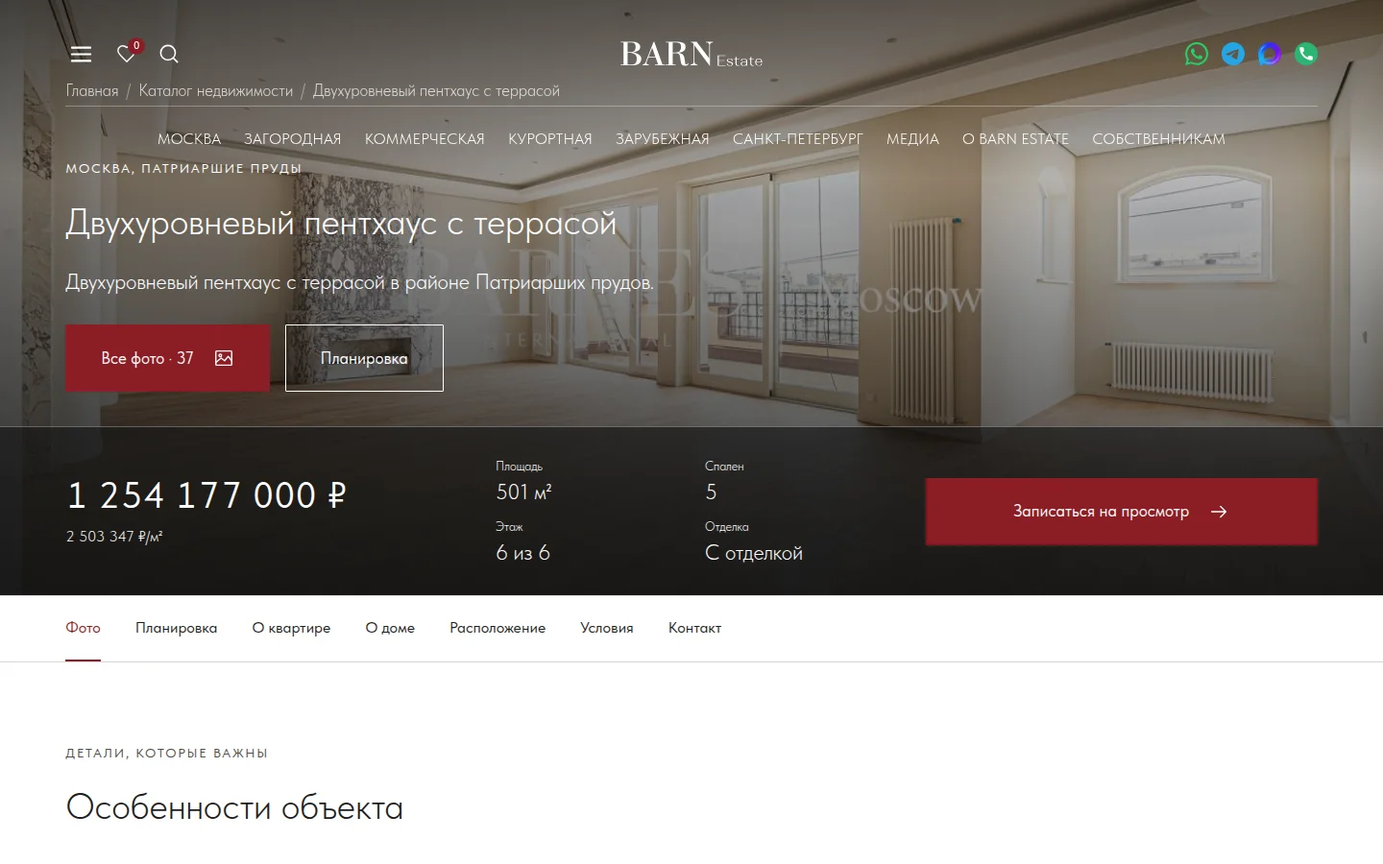
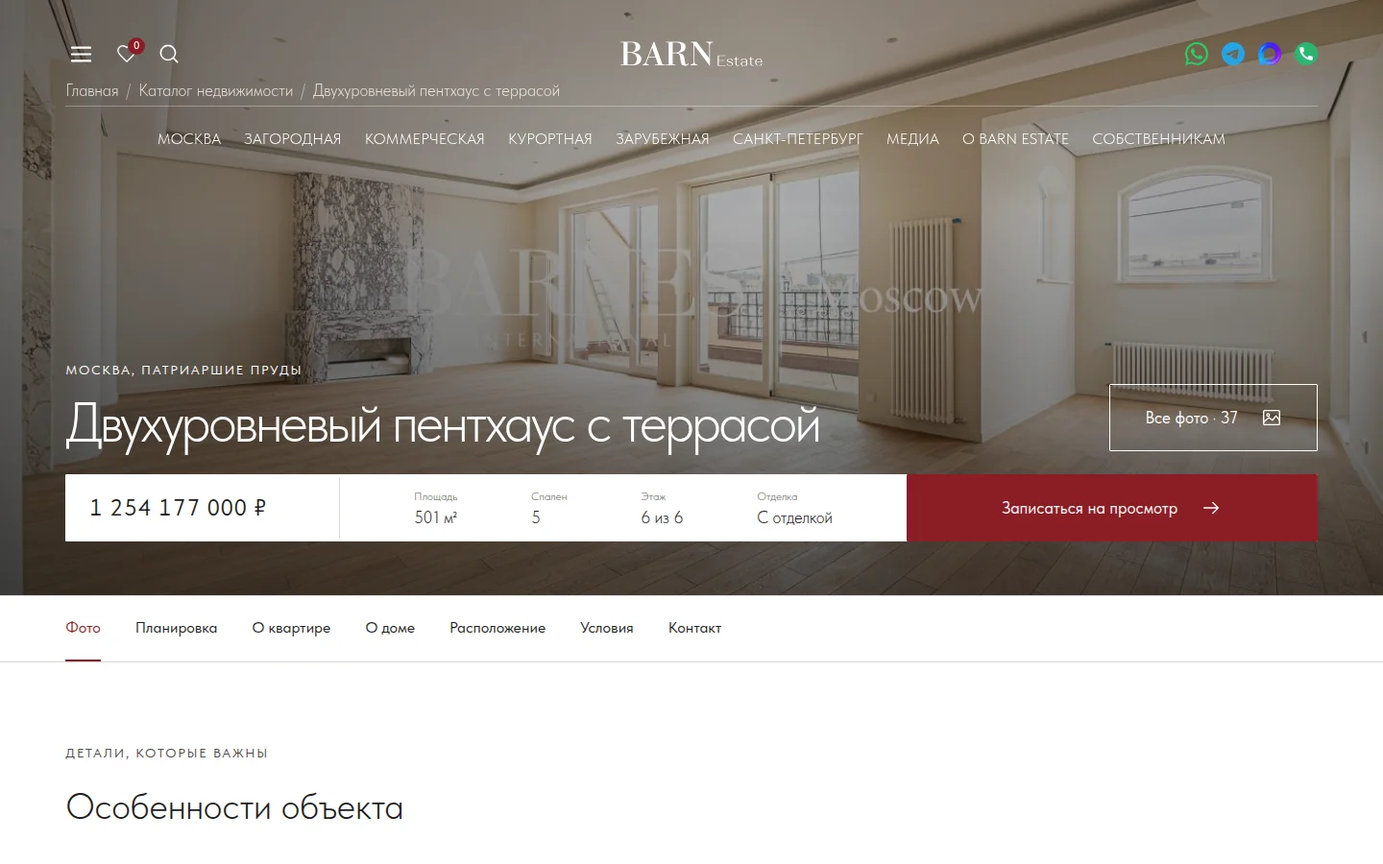
lot: publish hero 3 with approved hero roles and white action row

diff --git a/stranitsa-lota/hero-options/index.html b/stranitsa-lota/hero-options/index.html
@@ -1,1 +1,1 @@
-<!doctype html><html lang="ru"><head><meta charset="utf-8"><meta name="viewport" content="width=device-width,initial-scale=1"><meta name="robots" content="noindex,nofollow"><title>Варианты херо — BARN Estate</title><style>@font-face{font-family:Tilda Sans;src:url('../fonts/TildaSans-Light.woff2') format('woff2');font-weight:300;font-display:swap}@font-face{font-family:Tilda Sans;src:url('../fonts/TildaSans-Regular.woff2') format('woff2');font-weight:400;font-display:swap}*{box-sizing:border-box}body{margin:0;color:#1e1e1e;background:#fff;font:300 18px/1.5 'Tilda Sans',Arial,sans-serif}a{color:inherit}header,main{max-width:1920px;margin:auto;padding-inline:clamp(24px,calc(-26.66667px + 6.59722vw),100px)}header{display:flex;align-items:center;justify-content:space-between;gap:24px;padding-block:28px;border-bottom:1px solid #d8d6d2}header img{width:172px;height:48px}header a:last-child{font-size:15px;text-underline-offset:4px}main{padding-block:72px 100px}h1{font-size:44px;line-height:1.2;font-weight:300;max-width:920px;margin:0}main>p{font-size:22px;line-height:33px;color:#4f4d49;max-width:970px;margin:24px 0 0}.eyebrow{font-size:14px;font-weight:400;letter-spacing:.12em;text-transform:uppercase;color:#4f4d49;margin:0}.quick-links{display:flex;gap:12px;flex-wrap:wrap;margin:32px 0 48px}.quick-links a{display:flex;align-items:center;justify-content:center;width:44px;height:44px;text-decoration:none;border:1px solid #8b8986;border-radius:1px;font-size:17px;font-weight:400}.cards{display:grid;grid-template-columns:1fr 1fr;gap:64px 40px}article{border-top:1px solid #d8d6d2;padding-top:24px;scroll-margin-top:24px}article:last-child{grid-column:1/-1;max-width:950px}.card-top{display:flex;align-items:center;justify-content:space-between;gap:20px}.recommend{font-size:13px;line-height:18px;color:#8b1d25}.cards h2{font-size:28px;line-height:1.2;font-weight:300;margin:20px 0 28px}.shots{display:grid;grid-template-columns:minmax(0,1fr) 88px;gap:12px;background:#f7f6f4;padding:12px;align-items:center}.shots img{width:100%;height:auto;display:block}.shots .phone{border:1px solid #d8d6d2}.description{font-size:20px;line-height:1.5;margin:24px 0 12px}.why{font-size:16px;line-height:1.5;color:#656462;margin:0 0 24px}.button{display:inline-flex;align-items:center;justify-content:space-between;gap:32px;min-height:70px;padding:16px 36px;background:#8b1d25;border:1px solid #8b1d25;border-radius:1px;font-size:17px;line-height:1.1;font-weight:400;color:#fff;text-decoration:none}.button span{font-size:22px}a:focus-visible{outline:2px solid #8b1d25;outline-offset:5px}@media(min-width:1441px){.button{font-size:19px;padding-inline:47px}}@media(max-width:900px){.cards{grid-template-columns:1fr;gap:48px}.cards article:last-child{grid-column:auto}}@media(max-width:540px){header,main{padding-inline:22px}header{padding-block:20px;gap:16px}header img{width:130px;height:36px}header a:last-child{font-size:13px}main{padding-block:48px}h1{font-size:22px}.eyebrow{font-size:12px}main>p{font-size:15px;line-height:21px;margin-top:16px}.quick-links{margin-bottom:32px}.cards h2{font-size:22px;margin-block:16px 24px}.shots{display:block;padding:0}.shots .phone{display:none}.description{font-size:17px;margin-top:20px}.why{font-size:15px}.button{width:100%;min-height:58px;padding:14px 24px;font-size:18px}}@media(prefers-reduced-motion:reduce){*{scroll-behavior:auto!important}}</style></head><body><header><a href="../"><img src="../kit/assets/logo.svg" alt="BARN Estate" width="172" height="48"></a><a href="../">К странице лота</a></header><main><p class="eyebrow" style="margin-bottom:24px">Страница лота · выбор первого экрана</p><h1>Пять вариантов херо с крупной фотографией</h1><p>Фотография занимает всю ширину. У варианта №3 высота совпадает с главной страницей на всех брейкпоинтах. Шрифты, цвета и кнопки — из нашего UI-кита.</p><nav class="quick-links" aria-label="Варианты херо"><a href="#variant-1" aria-label="Вариант 1">01</a><a href="#variant-2" aria-label="Вариант 2">02</a><a href="#variant-3" aria-label="Вариант 3">03</a><a href="#variant-4" aria-label="Вариант 4">04</a><a href="#variant-5" aria-label="Вариант 5">05</a></nav><div class="cards"><article id="variant-1"><div class="card-top"><p class="eyebrow">Вариант 01</p><span class="recommend">Рекомендую</span></div><h2>Текст поверх фотографии</h2><a class="shots" href="../?hero=1&amp;v=hero-options-20261110" aria-label="Открыть вариант 1: Текст поверх фотографии"><img src="previews/1-desktop.webp" width="1440" height="900" alt="Вариант 1 на компьютере" loading="lazy"><img class="phone" src="previews/1-mobile.webp" width="390" height="844" alt="Вариант 1 на телефоне" loading="lazy"></a><p class="description">Название и описание слева, цена и запись справа. Максимум фотографии и минимум отдельных панелей.</p><p class="why">Спокойный и универсальный вариант.</p><a class="button" href="../?hero=1&amp;v=hero-options-20261110">Открыть вариант 1<span aria-hidden="true">↗</span></a></article><article id="variant-2"><div class="card-top"><p class="eyebrow">Вариант 02</p></div><h2>Белая карточка</h2><a class="shots" href="../?hero=2&amp;v=hero-options-20261110" aria-label="Открыть вариант 2: Белая карточка"><img src="previews/2-desktop.webp" width="1440" height="900" alt="Вариант 2 на компьютере" loading="lazy"><img class="phone" src="previews/2-mobile.webp" width="390" height="844" alt="Вариант 2 на телефоне" loading="lazy"></a><p class="description">Фотография продолжается за карточкой с ценой, параметрами и брокером. На телефоне карточка становится компактной.</p><p class="why">Самый привычный сценарий выбора объекта.</p><a class="button" href="../?hero=2&amp;v=hero-options-20261110">Открыть вариант 2<span aria-hidden="true">↗</span></a></article><article id="variant-3"><div class="card-top"><p class="eyebrow">Вариант 03</p></div><h2>Нижняя плашка</h2><a class="shots" href="../?hero=3&amp;v=hero3-home-20261110" aria-label="Открыть вариант 3: Нижняя плашка"><img src="previews/3-desktop.webp?v=home-height" width="1440" height="900" alt="Вариант 3 на компьютере" loading="lazy"><img class="phone" src="previews/3-mobile.webp?v=home-height" width="390" height="844" alt="Вариант 3 на телефоне" loading="lazy"></a><p class="description">Название, описание и кнопки опущены вниз, прямо над полосой с ценой, параметрами и записью.</p><p class="why">Высота первого экрана — как на главной странице.</p><a class="button" href="../?hero=3&amp;v=hero3-home-20261110">Открыть вариант 3<span aria-hidden="true">↗</span></a></article><article id="variant-4"><div class="card-top"><p class="eyebrow">Вариант 04</p></div><h2>Композиция по центру</h2><a class="shots" href="../?hero=4&amp;v=hero-options-20261110" aria-label="Открыть вариант 4: Композиция по центру"><img src="previews/4-desktop.webp" width="1440" height="900" alt="Вариант 4 на компьютере" loading="lazy"><img class="phone" src="previews/4-mobile.webp" width="390" height="844" alt="Вариант 4 на телефоне" loading="lazy"></a><p class="description">Название, описание и галерея собраны по центральной оси. Цена и просмотр — ниже, на той же оси.</p><p class="why">Подходит для акцентного архитектурного или интерьерного кадра.</p><a class="button" href="../?hero=4&amp;v=hero-options-20261110">Открыть вариант 4<span aria-hidden="true">↗</span></a></article><article id="variant-5"><div class="card-top"><p class="eyebrow">Вариант 05</p></div><h2>Лента кадров</h2><a class="shots" href="../?hero=5&amp;v=hero-options-20261110" aria-label="Открыть вариант 5: Лента кадров"><img src="previews/5-desktop.webp" width="1440" height="900" alt="Вариант 5 на компьютере" loading="lazy"><img class="phone" src="previews/5-mobile.webp" width="390" height="844" alt="Вариант 5 на телефоне" loading="lazy"></a><p class="description">Полноэкранная фотография с тремя миниатюрами для переключения. Название и стоимость остаются поверх изображения.</p><p class="why">Позволяет начать изучение квартиры прямо с первого экрана.</p><a class="button" href="../?hero=5&amp;v=hero-options-20261110">Открыть вариант 5<span aria-hidden="true">↗</span></a></article></div></main></body></html>
+<!doctype html><html lang="ru"><head><meta charset="utf-8"><meta name="viewport" content="width=device-width,initial-scale=1"><meta name="robots" content="noindex,nofollow"><title>Варианты херо — BARN Estate</title><style>@font-face{font-family:Tilda Sans;src:url('../fonts/TildaSans-Light.woff2') format('woff2');font-weight:300;font-display:swap}@font-face{font-family:Tilda Sans;src:url('../fonts/TildaSans-Regular.woff2') format('woff2');font-weight:400;font-display:swap}*{box-sizing:border-box}body{margin:0;color:#1e1e1e;background:#fff;font:300 18px/1.5 'Tilda Sans',Arial,sans-serif}a{color:inherit}header,main{max-width:1920px;margin:auto;padding-inline:clamp(24px,calc(-26.66667px + 6.59722vw),100px)}header{display:flex;align-items:center;justify-content:space-between;gap:24px;padding-block:28px;border-bottom:1px solid #d8d6d2}header img{width:172px;height:48px}header a:last-child{font-size:15px;text-underline-offset:4px}main{padding-block:72px 100px}h1{font-size:44px;line-height:1.2;font-weight:300;max-width:920px;margin:0}main>p{font-size:22px;line-height:33px;color:#4f4d49;max-width:970px;margin:24px 0 0}.eyebrow{font-size:14px;font-weight:400;letter-spacing:.12em;text-transform:uppercase;color:#4f4d49;margin:0}.quick-links{display:flex;gap:12px;flex-wrap:wrap;margin:32px 0 48px}.quick-links a{display:flex;align-items:center;justify-content:center;width:44px;height:44px;text-decoration:none;border:1px solid #8b8986;border-radius:1px;font-size:17px;font-weight:400}.cards{display:grid;grid-template-columns:1fr 1fr;gap:64px 40px}article{border-top:1px solid #d8d6d2;padding-top:24px;scroll-margin-top:24px}article:last-child{grid-column:1/-1;max-width:950px}.card-top{display:flex;align-items:center;justify-content:space-between;gap:20px}.recommend{font-size:13px;line-height:18px;color:#8b1d25}.cards h2{font-size:28px;line-height:1.2;font-weight:300;margin:20px 0 28px}.shots{display:grid;grid-template-columns:minmax(0,1fr) 88px;gap:12px;background:#f7f6f4;padding:12px;align-items:center}.shots img{width:100%;height:auto;display:block}.shots .phone{border:1px solid #d8d6d2}.description{font-size:20px;line-height:1.5;margin:24px 0 12px}.why{font-size:16px;line-height:1.5;color:#656462;margin:0 0 24px}.button{display:inline-flex;align-items:center;justify-content:space-between;gap:32px;min-height:70px;padding:16px 36px;background:#8b1d25;border:1px solid #8b1d25;border-radius:1px;font-size:17px;line-height:1.1;font-weight:400;color:#fff;text-decoration:none}.button span{font-size:22px}a:focus-visible{outline:2px solid #8b1d25;outline-offset:5px}@media(min-width:1441px){.button{font-size:19px;padding-inline:47px}}@media(max-width:900px){.cards{grid-template-columns:1fr;gap:48px}.cards article:last-child{grid-column:auto}}@media(max-width:540px){header,main{padding-inline:22px}header{padding-block:20px;gap:16px}header img{width:130px;height:36px}header a:last-child{font-size:13px}main{padding-block:48px}h1{font-size:22px}.eyebrow{font-size:12px}main>p{font-size:15px;line-height:21px;margin-top:16px}.quick-links{margin-bottom:32px}.cards h2{font-size:22px;margin-block:16px 24px}.shots{display:block;padding:0}.shots .phone{display:none}.description{font-size:17px;margin-top:20px}.why{font-size:15px}.button{width:100%;min-height:58px;padding:14px 24px;font-size:18px}}@media(prefers-reduced-motion:reduce){*{scroll-behavior:auto!important}}</style></head><body><header><a href="../"><img src="../kit/assets/logo.svg" alt="BARN Estate" width="172" height="48"></a><a href="../">К странице лота</a></header><main><p class="eyebrow" style="margin-bottom:24px">Страница лота · выбор первого экрана</p><h1>Пять вариантов херо с крупной фотографией</h1><p>Фотография занимает всю ширину. У варианта №3 высота совпадает с главной страницей на всех брейкпоинтах. Шрифты, цвета и кнопки — из нашего UI-кита.</p><nav class="quick-links" aria-label="Варианты херо"><a href="#variant-1" aria-label="Вариант 1">01</a><a href="#variant-2" aria-label="Вариант 2">02</a><a href="#variant-3" aria-label="Вариант 3">03</a><a href="#variant-4" aria-label="Вариант 4">04</a><a href="#variant-5" aria-label="Вариант 5">05</a></nav><div class="cards"><article id="variant-1"><div class="card-top"><p class="eyebrow">Вариант 01</p><span class="recommend">Рекомендую</span></div><h2>Текст поверх фотографии</h2><a class="shots" href="../?hero=1&amp;v=hero-options-20261110" aria-label="Открыть вариант 1: Текст поверх фотографии"><img src="previews/1-desktop.webp" width="1440" height="900" alt="Вариант 1 на компьютере" loading="lazy"><img class="phone" src="previews/1-mobile.webp" width="390" height="844" alt="Вариант 1 на телефоне" loading="lazy"></a><p class="description">Название и описание слева, цена и запись справа. Максимум фотографии и минимум отдельных панелей.</p><p class="why">Спокойный и универсальный вариант.</p><a class="button" href="../?hero=1&amp;v=hero-options-20261110">Открыть вариант 1<span aria-hidden="true">↗</span></a></article><article id="variant-2"><div class="card-top"><p class="eyebrow">Вариант 02</p></div><h2>Белая карточка</h2><a class="shots" href="../?hero=2&amp;v=hero-options-20261110" aria-label="Открыть вариант 2: Белая карточка"><img src="previews/2-desktop.webp" width="1440" height="900" alt="Вариант 2 на компьютере" loading="lazy"><img class="phone" src="previews/2-mobile.webp" width="390" height="844" alt="Вариант 2 на телефоне" loading="lazy"></a><p class="description">Фотография продолжается за карточкой с ценой, параметрами и брокером. На телефоне карточка становится компактной.</p><p class="why">Самый привычный сценарий выбора объекта.</p><a class="button" href="../?hero=2&amp;v=hero-options-20261110">Открыть вариант 2<span aria-hidden="true">↗</span></a></article><article id="variant-3"><div class="card-top"><p class="eyebrow">Вариант 03</p></div><h2>Крупный заголовок и белая полоса</h2><a class="shots" href="../?hero=3&amp;v=hero-kit-20261110" aria-label="Открыть вариант 3: Крупный заголовок и белая полоса"><img src="previews/3-desktop.webp?v=hero-kit" width="1440" height="900" alt="Вариант 3 на компьютере" loading="lazy"><img class="phone" src="previews/3-mobile.webp?v=hero-kit" width="390" height="844" alt="Вариант 3 на телефоне" loading="lazy"></a><p class="description">Крупный заголовок и кнопка всех фотографий внизу кадра. Цена, параметры и запись собраны в компактную белую полосу.</p><p class="why">Больше воздуха, одна основная кнопка и спокойная строка с параметрами.</p><a class="button" href="../?hero=3&amp;v=hero-kit-20261110">Открыть вариант 3<span aria-hidden="true">↗</span></a></article><article id="variant-4"><div class="card-top"><p class="eyebrow">Вариант 04</p></div><h2>Композиция по центру</h2><a class="shots" href="../?hero=4&amp;v=hero-options-20261110" aria-label="Открыть вариант 4: Композиция по центру"><img src="previews/4-desktop.webp" width="1440" height="900" alt="Вариант 4 на компьютере" loading="lazy"><img class="phone" src="previews/4-mobile.webp" width="390" height="844" alt="Вариант 4 на телефоне" loading="lazy"></a><p class="description">Название, описание и галерея собраны по центральной оси. Цена и просмотр — ниже, на той же оси.</p><p class="why">Подходит для акцентного архитектурного или интерьерного кадра.</p><a class="button" href="../?hero=4&amp;v=hero-options-20261110">Открыть вариант 4<span aria-hidden="true">↗</span></a></article><article id="variant-5"><div class="card-top"><p class="eyebrow">Вариант 05</p></div><h2>Лента кадров</h2><a class="shots" href="../?hero=5&amp;v=hero-options-20261110" aria-label="Открыть вариант 5: Лента кадров"><img src="previews/5-desktop.webp" width="1440" height="900" alt="Вариант 5 на компьютере" loading="lazy"><img class="phone" src="previews/5-mobile.webp" width="390" height="844" alt="Вариант 5 на телефоне" loading="lazy"></a><p class="description">Полноэкранная фотография с тремя миниатюрами для переключения. Название и стоимость остаются поверх изображения.</p><p class="why">Позволяет начать изучение квартиры прямо с первого экрана.</p><a class="button" href="../?hero=5&amp;v=hero-options-20261110">Открыть вариант 5<span aria-hidden="true">↗</span></a></article></div></main></body></html>

diff --git a/stranitsa-lota/hero-variants.css b/stranitsa-lota/hero-variants.css
@@ -108,30 +108,6 @@ body[data-hero-variant="2"] .lot-offer__facts dt {color:var(--muted)}
 body[data-hero-variant="2"] .lot-offer .text-link {color:var(--brand)}
 body[data-hero-variant="2"] .lot-offer .lot-price {font-size:32px}
 body[data-hero-variant="2"] .lot-hero__copy {width:calc(100% - 540px - var(--hero-inset));max-width:840px}
-/* 3 — title and actions sit directly above the horizontal bottom passport. */
-body[data-hero-variant="3"] .lot-hero {display:flex;flex-direction:column;justify-content:flex-end}
-body[data-hero-variant="3"] .lot-hero__copy {
-  position:relative;z-index:1;top:auto;bottom:auto;left:auto;
-  width:min(66%,950px);
-  margin:0 max(var(--hero-inset),calc((100vw - 1920px)/2)) 36px;
-}
-body[data-hero-variant="3"] .lot-hero__actions {margin-top:28px}
-body[data-hero-variant="3"] .lot-offer {
-  position:relative;flex:none;
-  display:grid;
-  grid-template-columns:1fr 1fr 1fr;
-  align-items:center;
-  justify-content:stretch;
-  gap:40px;
-  left:0;right:0;bottom:0;
-  width:100%;
-  padding:32px max(var(--hero-inset),calc((100vw - 1920px)/2));
-  background:#151515a6;
-  border-top:1px solid #ffffff50;
-}
-body[data-hero-variant="3"] .lot-offer__meta {display:none}
-body[data-hero-variant="3"] .lot-offer__facts {display:grid;border:0;padding:0;gap:14px 28px;grid-template-columns:repeat(2,1fr)}
-body[data-hero-variant="3"] .lot-offer__actions .text-link {display:none}
 /* 4 — centered composition, quiet information and one viewing action. */
 body[data-hero-variant="4"] .lot-hero__copy {
   left:50%;top:45%;bottom:auto;
@@ -171,7 +147,6 @@ body[data-hero-variant="5"] .lot-offer__actions .text-link {display:none}
   body[data-hero-variant]{--hero-top:190px}
   body[data-hero-variant="2"] .lot-offer {width:350px;padding:24px}
   body[data-hero-variant="2"] .lot-hero__copy {width:calc(100% - 440px - var(--hero-inset))}
-  body[data-hero-variant="3"] .lot-offer {gap:24px}
   .hero-filmstrip{width:135px}
 }
 @media(max-width:1024px){
@@ -179,9 +154,6 @@ body[data-hero-variant="5"] .lot-offer__actions .text-link {display:none}
   body[data-hero-variant] .lot-offer {grid-column:auto;grid-row:auto}
   body[data-hero-variant] .lot-hero {min-height:800px}
   body[data-hero-variant="2"] .lot-offer .broker {display:none}
-  body[data-hero-variant="3"] .lot-offer {grid-template-columns:1fr 1fr}
-  body[data-hero-variant="3"] .lot-offer__facts {display:none}
-  body[data-hero-variant="3"] .lot-offer__actions {grid-row:auto;grid-column:auto}
 }
 @media(max-width:1024px){
   body[data-hero-variant] .lot-hero {height:100svh;min-height:760px}
@@ -202,9 +174,6 @@ body[data-hero-variant="5"] .lot-offer__actions .text-link {display:none}
   body[data-hero-variant="2"] .lot-offer__facts {display:none}
   body[data-hero-variant="2"] .lot-offer .lot-price {font-size:clamp(24px,7.5vw,30px)}
   body[data-hero-variant="2"] .lot-hero__copy {bottom:300px}
-  body[data-hero-variant="3"] .lot-hero__copy {top:auto;bottom:auto;left:auto;width:calc(100% - 44px);margin:0 22px 28px}
-  body[data-hero-variant="3"] .lot-offer {left:0;right:0;bottom:0;width:100%;display:block;padding:24px 22px}
-  body[data-hero-variant="3"] .lot-offer__actions {margin-top:20px}
   body[data-hero-variant="4"] .lot-hero__copy {top:42%;bottom:auto;left:50%;width:calc(100% - 44px)}
   body[data-hero-variant="4"] .lot-hero__actions {justify-content:center}
   body[data-hero-variant="4"] .lot-offer {left:50%;right:auto;width:calc(100% - 44px);bottom:40px}
@@ -216,16 +185,78 @@ body[data-hero-variant="5"] .lot-offer__actions .text-link {display:none}
 }
 @media(max-height:700px) and (min-width:768px){body[data-hero-variant] .lot-hero{height:800px}}
 
-/* Variant 3 follows the approved homepage hero height, including laptop policy. */
-body[data-hero-variant="3"] .lot-hero {height:960px;min-height:0}
+/* 3 — approved Media/Owner hero typography and homepage's white action row. */
+body[data-hero-variant="3"] {
+  --hero-inset:calc(-26.66667px + 6.59722vw);
+  --kit-hero-bottom:56px;
+}
+html body.lot-page.barnes-media-header[data-hero-variant="3"] {--mh-gutter:var(--hero-inset)!important}
+body[data-hero-variant="3"] .lot-hero {display:flex;flex-direction:column;justify-content:flex-end;height:960px;min-height:0;font-family:"Tilda Sans","Tilda Sans Fallback",system-ui,-apple-system,"Segoe UI",Roboto,"Helvetica Neue",Arial,sans-serif;line-height:1}
+body[data-hero-variant="3"] .lot-hero__visual::after {background:linear-gradient(#00000047,#0000002e 35%,#0000008c),linear-gradient(90deg,#00000073,#00000026 55%,#00000040)}
+body[data-hero-variant="3"] .lot-hero__copy {
+  position:relative;z-index:1;inset:auto;
+  display:grid;grid-template-columns:minmax(0,1fr) auto;column-gap:36px;row-gap:16px;
+  width:calc(100% - max(var(--hero-inset),calc((100vw - 1920px)/2))*2);
+  margin:0 max(var(--hero-inset),calc((100vw - 1920px)/2)) 24px;padding:0;
+}
+body[data-hero-variant="3"] .lot-hero__copy .eyebrow {grid-column:1;margin:0;font-size:14px;line-height:16.1px;font-weight:400;letter-spacing:.12em}
+body[data-hero-variant="3"] .lot-hero__copy h1 {grid-column:1;width:100%;max-width:925px;margin:0;font-size:clamp(38px,4vw,58px);line-height:1.05;font-weight:300;letter-spacing:-.045em}
+body[data-hero-variant="3"] .lot-hero__copy .lead {display:none}
+body[data-hero-variant="3"] .lot-hero__actions {grid-column:2;grid-row:1/3;align-self:end;margin:0;gap:0}
+body[data-hero-variant="3"] .lot-hero__actions a {display:none}
+body[data-hero-variant="3"] .lot-hero__actions .button {min-height:70px;padding:16px 36px;border:1px solid #fff;background:transparent;color:#fff;font-size:17px;line-height:1.1;font-weight:400;gap:24px}
+body[data-hero-variant="3"] .lot-offer {
+  position:relative;flex:none;inset:auto;
+  display:grid;grid-template-columns:285px minmax(0,1fr) 428px;
+  align-items:center;gap:0;
+  width:calc(100% - max(var(--hero-inset),calc((100vw - 1920px)/2))*2);
+  margin:0 max(var(--hero-inset),calc((100vw - 1920px)/2)) var(--kit-hero-bottom);
+  padding:0;border:0;border-radius:1px;background:#fff;color:var(--ink);
+}
+body[data-hero-variant="3"] .lot-offer>div:first-of-type {padding:16px 24px}
+body[data-hero-variant="3"] .lot-offer .lot-price {font-size:24px;line-height:1.2;font-weight:400;color:var(--ink)}
+body[data-hero-variant="3"] .lot-price-per,
+body[data-hero-variant="3"] .lot-offer__meta,
+body[data-hero-variant="3"] .lot-offer__actions .text-link {display:none}
+body[data-hero-variant="3"] .lot-offer__facts {display:flex;align-items:center;justify-content:space-evenly;gap:20px;padding:12px 20px;border:0;border-left:1px solid var(--line)}
+body[data-hero-variant="3"] .lot-offer__facts dt {font-size:12px;line-height:16px;color:var(--muted)}
+body[data-hero-variant="3"] .lot-offer__facts dd {margin-top:4px;font-size:17px;line-height:20px;color:var(--ink)}
+body[data-hero-variant="3"] .lot-offer__actions {display:flex;align-self:stretch;margin:0;width:100%}
+body[data-hero-variant="3"] .lot-offer__actions .button {width:100%;min-height:70px;padding:16px 36px;font-size:17px;line-height:1.1;justify-content:center;gap:24px}
 @media(max-width:1440px){body[data-hero-variant="3"] .lot-hero {height:820px}}
+@media(min-width:1025px) and (max-width:1919px), (min-width:1920px) and (max-height:1000px){body[data-hero-variant="3"] .lot-hero {height:620px}}
+@media(min-width:1441px){
+  body[data-hero-variant="3"] {--kit-hero-bottom:72px}
+  body[data-hero-variant="3"] .lot-hero__actions .button,
+  body[data-hero-variant="3"] .lot-offer__actions .button {font-size:19px;padding-inline:47px}
+  body[data-hero-variant="3"] .lot-offer {grid-template-columns:300px minmax(0,1fr) 428px}
+}
+@media(min-width:1441px) and (max-width:1919px), (min-width:1920px) and (max-height:1000px){body[data-hero-variant="3"] .lot-hero {height:760px}}
+@media(min-width:1921px){body[data-hero-variant="3"] {--hero-inset:0px}}
+@media(max-width:1200px){
+  body[data-hero-variant="3"] .lot-offer {grid-template-columns:285px minmax(0,1fr) 320px}
+  body[data-hero-variant="3"] .lot-offer__facts>div:nth-child(n+3){display:none}
+}
+@media(max-width:1024px){
+  body[data-hero-variant="3"] {--kit-hero-bottom:48px}
+  body[data-hero-variant="3"] .lot-hero__copy {display:block}
+  body[data-hero-variant="3"] .lot-hero__copy .eyebrow {margin-bottom:16px}
+  body[data-hero-variant="3"] .lot-hero__actions {margin-top:20px}
+  body[data-hero-variant="3"] .lot-offer {grid-template-columns:minmax(0,1fr) 320px}
+  body[data-hero-variant="3"] .lot-offer__facts {display:none}
+}
+@media(max-width:768px){
+  body[data-hero-variant="3"] {--hero-inset:calc(8.94118px + 1.96078vw);--kit-hero-bottom:40px}
+  body[data-hero-variant="3"] .lot-offer {display:block;padding:16px}
+  body[data-hero-variant="3"] .lot-offer>div:first-of-type {padding:0 0 16px}
+}
 @media(max-width:540px){
+  body[data-hero-variant="3"] {--kit-hero-bottom:32px}
   body[data-hero-variant="3"] .lot-hero {height:560px}
-  body[data-hero-variant="3"] .lot-hero__actions .button {padding-inline:12px}
-}
-@media(min-width:1025px) and (max-width:1919px), (min-width:1920px) and (max-height:1000px){
-  body[data-hero-variant="3"] .lot-hero {height:620px}
-}
-@media(min-width:1441px) and (max-width:1919px), (min-width:1920px) and (max-height:1000px){
-  body[data-hero-variant="3"] .lot-hero {height:760px}
+  body[data-hero-variant="3"] .lot-hero__copy h1 {font-size:32px;line-height:1.05}
+  body[data-hero-variant="3"] .lot-hero__actions .button {min-height:58px;padding:16px 24px;font-size:18px;line-height:19.8px}
+  body[data-hero-variant="3"] .lot-offer {display:block;padding:16px}
+  body[data-hero-variant="3"] .lot-offer>div:first-of-type {padding:0 0 16px}
+  body[data-hero-variant="3"] .lot-offer .lot-price {font-size:22px;line-height:1.2}
+  body[data-hero-variant="3"] .lot-offer__actions .button {min-height:58px;padding:16px 24px;font-size:18px;line-height:19.8px}
 }

diff --git a/stranitsa-lota/index.html b/stranitsa-lota/index.html
@@ -1,6 +1,6 @@
 <!DOCTYPE html><html lang="ru"><head><meta charset="utf-8"><meta name="viewport" content="width=device-width,initial-scale=1"><meta name="robots" content="noindex,nofollow"><meta name="description" content="Двухуровневый пентхаус с террасой в районе Патриарших прудов."><meta property="og:title" content="Двухуровневый пентхаус с террасой — BARN Estate"><meta property="og:description" content="Двухуровневый пентхаус с террасой в районе Патриарших прудов."><meta property="og:image" content="assets/source/033e8fa88f8a.jpg"><meta name="theme-color" content="#ffffff"><title>Двухуровневый пентхаус с террасой — BARN Estate</title>
 <link rel="icon" href="kit/assets/logo.svg"><link rel="preload" href="fonts/TildaSans-Light.woff2" as="font" type="font/woff2" crossorigin="">
-<link rel="stylesheet" href="kit/vendor/media-header.css"><link rel="stylesheet" href="kit/vendor/header-navigation.css?v=f7248c22fe"><link rel="stylesheet" href="kit/vendor/footer.css?v=3d9a33bacd"><link rel="stylesheet" href="lot-page.css?v=843f29fce6"><link rel="stylesheet" href="hero-variants.css?v=adc8aef85a"><link rel="stylesheet" href="kit/vendor/page-breadcrumbs.css?v=7a58ed93dc">
+<link rel="stylesheet" href="kit/vendor/media-header.css"><link rel="stylesheet" href="kit/vendor/header-navigation.css?v=f7248c22fe"><link rel="stylesheet" href="kit/vendor/footer.css?v=3d9a33bacd"><link rel="stylesheet" href="lot-page.css?v=843f29fce6"><link rel="stylesheet" href="hero-variants.css?v=68b17cdde9"><link rel="stylesheet" href="kit/vendor/page-breadcrumbs.css?v=7a58ed93dc">
 <script defer="" src="lot-data.js?v=390b9bc4a8"></script><script defer="" src="lot-page.js?v=8e79f7afed"></script><script defer="" src="kit/vendor/media-header.js"></script><script defer="" src="kit/vendor/header-navigation.js"></script><script defer="" src="kit/vendor/page-breadcrumbs.js?v=9ba4a0fec8" data-page="lot"></script></head>
 <body class="lot-page"><a class="skip-link" href="#main">К содержанию лота</a>
 <header class="site-header" data-v-6d58c4a7="" data-v-63dbb988=""><div class="site-header__inner base-container" data-v-63dbb988=""><div class="site-header__top" data-v-63dbb988=""><div class="site-header__left" data-v-63dbb988=""><button type="button" class="site-header__icon-btn" aria-expanded="false" aria-controls="site-mobile-menu" aria-label="Открыть меню" data-v-63dbb988=""><span class="ui-icon ui-icon-current site-header__icon" data-v-63dbb988="" data-v-8bd2f545=""><svg xmlns="http://www.w3.org/2000/svg" width="24" height="24" viewBox="0 0 24 24" fill="none" stroke="currentColor" stroke-width="1.5" stroke-linecap="round">

diff --git a/README.md b/README.md
@@ -50,7 +50,7 @@
 
 - [Медиа — визуальное превью](https://daniilterekh-prog.github.io/barn-estate-homepage-clone/media/?v=moscow-real-photo-20261103) — полная сверка типографики по текстовым ролям главной, включая формы и меню; 8 бровей, единые отступы, текстовые роли и карточки; согласованный hero и выпадающее меню; заголовки секций прописными, H1 без капса по размеру узловых страниц; плавающий эксперт с актуальным квизом и фото Руслана с главной; отдельный повторный блок дайджеста удалён. Новое изображение изданий: один журнал-каталог с чёрным названием BARN Estate. В карточке «В фокусе — Москва» — сдержанная архитектура и плавная маска затемнения; скругления прямоугольных элементов≤1px, аватар Руслана и стрелки слайдера круглые. У текстовых действий добавлены стрелки и hover/клавиатурный фокус. Фоны консультации и изданий — до краёв страницы, контент на общей сетке. Сердечко и круглый счётчик совпадают с узлом «Курортная». В обеих карточках аналитики элитной Москвы заIквартал2026 — реальная вечерняя панорама из официальной галереи Capital Towers вместо выдуманного сочетания ориентиров. На телефонах до540px пять блоков перестроены по мобильному макету с сохранением кита; десктоп и библиотека сохранены. Экспорт 03.11.2026, формы не отправляются.
 
-- [Страница лота: варианты херо, №3 по высоте главной · 10.11.2026](https://daniilterekh-prog.github.io/barn-estate-homepage-clone/stranitsa-lota/hero-options/) — варианты на нашем UI-ките; №3 повторяет высоту главной, исправлены выпадающие меню хедера.
+- [Страница лота: №3 с типографикой херо кита и белой строкой параметров · 10.11.2026](https://daniilterekh-prog.github.io/barn-estate-homepage-clone/stranitsa-lota/hero-options/) — варианты на нашем UI-ките; №3 повторяет высоту главной, исправлены выпадающие меню хедера.
 - [Страница лота: новая структура на UI-ките v1.0.6 ·10.11.2026](https://daniilterekh-prog.github.io/barn-estate-homepage-clone/stranitsa-lota/?v=structure-20261110) — особенности, планировка, квартира, дом, окружение, условия, брокер и похожие предложения. [Исходники и сохранённый кит](https://github.com/daniilterekh-prog/barnes-sites/tree/main/main-site/pages/lot). Старый макет Figma использован частично; приватный референс не публикуется.
 
 - [Коммерческая: UI-кит главной v1.0.0, 01.11.2026](kommercheskaya-nedvizhimost/HOME-KIT.md) — синхронизированное самодостаточное превью; рабочие исходники в barnes-sites/main-site/pages/commercial.

diff --git a/PAGES.md b/PAGES.md
@@ -28,7 +28,7 @@
 | Курортная | [Превью](https://daniilterekh-prog.github.io/barn-estate-homepage-clone/kurortnaya/) | [Исходники](https://github.com/daniilterekh-prog/barnes-sites/tree/main/main-site/pages/resort/kit-2026-11-01) |
 | Каталог | [Превью](https://daniilterekh-prog.github.io/barn-estate-homepage-clone/katalog-nedvizhimosti/) | [Исходники](https://github.com/daniilterekh-prog/barnes-sites/tree/main/main-site/pages/catalog) |
 | Избранное | [Превью](https://daniilterekh-prog.github.io/barn-estate-homepage-clone/izbrannoe/) | [Исходники](https://github.com/daniilterekh-prog/barnes-sites/tree/main/main-site/pages/favorites) |
-| Страница лота · херо №3 по высоте главной | [Сравнение](https://daniilterekh-prog.github.io/barn-estate-homepage-clone/stranitsa-lota/hero-options/) | [Описание](https://github.com/daniilterekh-prog/barnes-sites/blob/main/main-site/pages/lot/HERO-OPTIONS.md) |
+| Страница лота · №3: крупный заголовок и белая строка | [Сравнение](https://daniilterekh-prog.github.io/barn-estate-homepage-clone/stranitsa-lota/hero-options/) | [Описание](https://github.com/daniilterekh-prog/barnes-sites/blob/main/main-site/pages/lot/HERO-OPTIONS.md) |
 | Страница лота · кит1.0.6, структура10.11 | [Превью](https://daniilterekh-prog.github.io/barn-estate-homepage-clone/stranitsa-lota/) | [Исходники](https://github.com/daniilterekh-prog/barnes-sites/tree/main/main-site/pages/lot) |
 
 Старые адреса `/`, `/barnes-moscow/` ведут на текущую главную; `international-latest.html` — на текущую зарубежную. Утверждённые Git-метки сохраняют исходные релизы.

diff --git a/stranitsa-lota/README.md b/stranitsa-lota/README.md
@@ -1,4 +1,4 @@
-[Вариант 3: высота главной, текст внизу и исправленные меню · 10.11.2026](https://daniilterekh-prog.github.io/barn-estate-homepage-clone/stranitsa-lota/?hero=3&v=hero3-home-20261110). Сверены все правила высоты главной и 16 размеров окна, проверены 27 выпадающих меню; [детали](https://github.com/daniilterekh-prog/barnes-sites/blob/main/main-site/pages/lot/HERO-OPTIONS.md).
+[Вариант 3: крупный заголовок херо и белая строка параметров · 10.11.2026](https://daniilterekh-prog.github.io/barn-estate-homepage-clone/stranitsa-lota/?hero=3&v=hero-kit-20261110). Высота главной сохранена; типографика, CTA и отступы сверены со страницами Медиа/Собственников. [Детали и проверки](https://github.com/daniilterekh-prog/barnes-sites/blob/main/main-site/pages/lot/HERO-OPTIONS.md).
 
 # Общий шаблон лота BARN Estate
 
